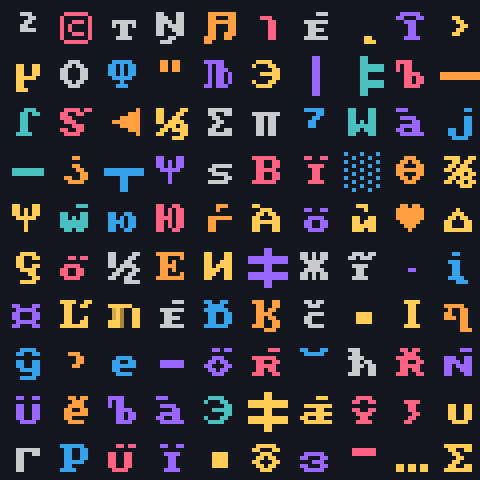
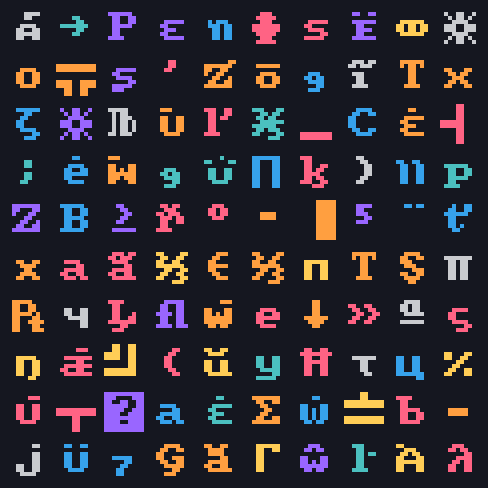
Update readme according to new generation parameters. Argparse mainly done

diff --git a/src/setup.py b/src/setup.py
@@ -2,7 +2,7 @@ import argparse
 import tomllib
 
 import argtypes
-import groups
+import aliases
 
 # This setup file configures all parameters for argparse
 # for all scripts. Default values stored in settings.toml,
@@ -132,7 +132,7 @@ def add_argument(argument, parser, ARGS, script_name):
         # Glyphs
         case 'font_name':
             parser.add_argument(
-                '-fn',
+                '-f', '-fn',
                 help='Set up font by given name',
                 default=ARGS['font_name'],
                 type=str,
@@ -150,7 +150,7 @@ def add_argument(argument, parser, ARGS, script_name):
 
         case 'font_padding':
             parser.add_argument(
-                '-fp', '-fm',
+                '-p', '-fp', '-fm',
                 help='Gap between glyphs on image',
                 default=ARGS['font_padding'],
                 type=int,
@@ -200,7 +200,7 @@ def add_argument(argument, parser, ARGS, script_name):
                 '-w',
                 help=(
                     'Image width. Can be parametrized with -as '
-                    'flag as pixels or tiles (if available)',
+                    'flag as pixels or tiles (if available)'
                 ),
                 default=ARGS['image_width'],
                 type=argtypes.dimension,
@@ -212,20 +212,20 @@ def add_argument(argument, parser, ARGS, script_name):
                 '-h',
                 help=(
                     'Image height. Can be parametrized with -as '
-                    'flag as pixels or tiles (if available)',
+                    'flag as pixels or tiles (if available)'
                 ),
                 default=ARGS['image_height'],
                 type=argtypes.dimension,
                 dest='image_height',
             )
 
-        case 'as':
+        case 'by':
             parser.add_argument(
-                '-as',
+                '-by',
                 help='The size unit for image width and height',
-                default=ARGS['as'],
+                default=ARGS['by'],
                 choices=('pixels', 'tiles'),
-                dest='as',
+                dest='by',
             )
 
         case 'image_scale_factor':
@@ -665,7 +665,7 @@ def add_argument(argument, parser, ARGS, script_name):
                 help='Exclude figure segments on image',
                 default=ARGS['exclude'],
                 dest='exclude',
-                choices=list(groups.figures.keys()),
+                choices=list(aliases.figures.keys()),
                 nargs='+'
             )
 
@@ -730,9 +730,6 @@ def add_argument(argument, parser, ARGS, script_name):
                 dest='line_color',
             )
 
-        case _:  # TODO: Remove
-            print(f'Argument {argument} not found!')
-
 
 def setup(script_name):
     settings = tomllib.load(open('settings.toml', 'rb'))
@@ -756,10 +753,13 @@ def setup(script_name):
         'worm': {
             'show_colors': argtypes.show_colors,
             'show_colorsets': argtypes.show_colorsets
-
         },
-        'primes': {
+        'coprimes': {
+            'show_colors': argtypes.show_colors
+        },
+        'puzzles': {
             'show_colors': argtypes.show_colors,
+            'show_colorsets': argtypes.show_colorsets
         }
     }.get(script_name, dict())
 
@@ -786,8 +786,6 @@ def setup(script_name):
     [helps[helper]() for helper in helps if ARGS[helper]]
     if any([ARGS[helper] for helper in helps]):
         exit(0)
-
-    # TODO: Validate all inputted values?
 
     # print(ARGS)
     return ARGS

diff --git a/src/aliases.py b/src/aliases.py
@@ -1,4 +1,14 @@
 colors = {
+    ':black': (0, 0, 0),
+    ':white': (255, 255, 255),
+    ':red': (255, 0, 0),
+    ':green': (0, 255, 0),
+    ':blue': (0, 0, 255),
+    ':pink': (255, 0, 255),
+    ':cyan': (0, 255, 255),
+    ':yellow': (255, 255, 0),
+
+    ':c:black': (21, 23, 32),
     ':c:red': (255, 99, 132),
     ':c:orange': (255, 159, 64),
     ':c:yellow': (255, 205, 86),
@@ -6,21 +16,40 @@ colors = {
     ':c:blue': (54, 162, 235),
     ':c:purple': (153, 102, 255),
     ':c:grey': (201, 203, 207),
-    ':c:black': (21, 23, 32),
 
-    ':white': (255, 255, 255),
-    ':black': (0, 0, 0),
+    ":p:black": (0, 0, 0),
+    ":p:dark-blue": (29, 43, 83),
+    ":p:dark-purple": (126, 37, 83),
+    ":p:dark-green": (0, 135, 81),
+    ":p:brown": (171, 82, 54),
+    ":p:dark-grey": (95, 87, 79),
+    ":p:light-grey": (194, 195, 199),
+    ":p:white": (255, 241, 232),
+    ":p:red": (255, 0, 77),
+    ":p:orange": (255, 163, 0),
+    ":p:yellow": (255, 236, 39),
+    ":p:green": (0, 228, 54),
+    ":p:blue": (41, 173, 255),
+    ":p:lavender": (131, 118, 156),
+    ":p:pink": (255, 119, 168),
+    ":p:light-peach": (255, 204, 170),
 }
 
 color_sets = {
     ':casual': (
-        (255, 99, 132),
-        (255, 159, 64),
-        (255, 205, 86),
-        (75, 192, 192),
-        (54, 162, 235),
-        (153, 102, 255),
-        (201, 203, 207),
+        tuple(
+            colors[c] for c in colors
+            if c.startswith(':c:') and c != ':c:black'
+        )
+    ),
+    ':pico-8': (
+        tuple(
+            colors[c] for c in colors
+            if c.startswith(':p:') and c != ':p:black'
+        )
+    ),
+    ':base': (
+        tuple(colors[c] for c in colors if c.count(':') == 1)
     ),
     ':grayscale': (
         tuple((c, c, c) for c in range(255, 0, -32))
@@ -34,8 +63,14 @@ color_sets = {
     ':bluescale': (
         tuple((0, 0, c) for c in range(255, 0, -32))
     ),
-    ':purplescale': (
+    ':pinkscale': (
         tuple((c, 0, c) for c in range(255, 0, -32))
+    ),
+    ':cyanscale': (
+        tuple((0, c, c) for c in range(255, 0, -32))
+    ),
+    ':yellowscale': (
+        tuple((c, c, 0) for c in range(255, 0, -32))
     ),
 }
 

diff --git a/src/puzzles.py b/src/puzzles.py
@@ -16,7 +16,7 @@ from utils import (
 ARGS = setup('puzzles')
 s = ARGS['tile_side']
 
-if ARGS['as'] == 'tiles':
+if ARGS['by'] == 'tiles':
     ARGS['image_width'] *= (s + 1)
     ARGS['image_width'] += 1
 
@@ -26,7 +26,7 @@ if ARGS['as'] == 'tiles':
 # Create canvas
 data = np.full(
     (ARGS['image_height'], ARGS['image_width'], 3),
-    (0, 0, 0),
+    tuple(255 - c for c in ARGS['line_color']),
     np.uint8
 )
 
@@ -40,11 +40,10 @@ data[:, -1] = ARGS['line_color']
 # Ledges
 l = ARGS['ledge_length']
 d = ARGS['ledge_depth']
+v = ceil((s - l) / 2)  # Length of baseline parts
 
 for y in range(0, ARGS['image_height'] - 1, s + 1):    
     for x in range(0, ARGS['image_width'] - 1, s + 1):
-        v = ceil((s - l) / 2)
-
         if y != 0 and y != ARGS['image_height'] - 1:
             # _    _ of  _|‾‾|_
             data[y, x:x+v + 1] = ARGS['line_color']
@@ -55,8 +54,8 @@ for y in range(0, ARGS['image_height'] - 1, s + 1):
             data[y+dy*d, x+v+1:x+v+1+l] = ARGS['line_color']
 
             #  |  |  of  _|‾‾|_
-            data[y:y+dy*d + 1*dy:dy, x+v] = ARGS['line_color']
-            data[y:y+dy*d + 1*dy:dy, x+v+1+l] = ARGS['line_color']
+            data[y:y+dy*d+dy:dy, x+v] = ARGS['line_color']
+            data[y:y+dy*d+dy:dy, x+v+1+l] = ARGS['line_color']
 
         # Same things but on y axis
         if x != 0 and x != ARGS['image_width'] - 1:
@@ -66,8 +65,8 @@ for y in range(0, ARGS['image_height'] - 1, s + 1):
             dx = choice((-1, 1))
             data[y+v+1:y+v+1+l, x+dx*d] = ARGS['line_color']
 
-            data[y+v, x:x+dx*d + 1*dx:dx] = ARGS['line_color']
-            data[y+v+1+l, x:x+dx*d + 1*dx:dx] = ARGS['line_color']
+            data[y+v, x:x+dx*d+dx:dx] = ARGS['line_color']
+            data[y+v+1+l, x:x+dx*d+dx:dx] = ARGS['line_color']
 
 # Paint
 image = Image.fromarray(data)

diff --git a/src/argtypes.py b/src/argtypes.py
@@ -4,7 +4,7 @@ import random
 import time
 import re
 
-from groups import (
+from aliases import (
     glyph_sets,
     colors,
     color_sets,
@@ -142,7 +142,7 @@ def none_or_int(value: str):
 
 
 def effects(value):
-    if value == "0":
+    if value == '0':
         return ''
     
     elif re.match(r"[1-6]+", value):

diff --git a/src/worm.py b/src/worm.py
@@ -64,7 +64,7 @@ for i in range(ARGS['step_limit']):
         if not 0 <= y <= ARGS['image_height'] - 1:
             y = abs(y - ARGS['image_height'] + 2)
         
-        cells.setdefault((x, y), 1)
+        cells.setdefault((x, y), 0)
         cells[(x, y)] += 1
 
 # Paint

diff --git a/src/mapper.py b/src/mapper.py
@@ -28,7 +28,7 @@ tileset = tuple(  # Slice tileset to list
     for y in range(0, t.shape[1], tile_height)
 )
 
-if ARGS['as'] == 'tiles':
+if ARGS['by'] == 'tiles':
     ARGS['image_width'] *= cell_width 
     ARGS['image_width'] += tile_padding
 

diff --git a/src/glyphs.py b/src/glyphs.py
@@ -15,7 +15,7 @@ from utils import (
 
 ARGS = setup('glyphs')
 
-if ARGS['as'] == 'tiles':
+if ARGS['by'] == 'tiles':
     ARGS['image_width'] *= ARGS['font_size'] + ARGS['font_padding']
     ARGS['image_width'] += ARGS['font_padding']
 

diff --git a/src/enemies.py b/src/enemies.py
@@ -88,7 +88,7 @@ for i in level_text:
 
 # Additional effects
 x, y = 10, 18
-effects_str = ARGS['effects'] or (
+effects_str = ARGS['effects'] if ARGS['effects'] is not None else (
     sample(list('123456'), randint(0, 6))
 )
 

diff --git a/src/coprimes.py b/src/coprimes.py
@@ -5,7 +5,7 @@ from math import gcd
 from random import randint
 
 from setup import setup
-from groups import figures
+from aliases import figures
 from utils import (
     resize,
     show_and_save

diff --git a/src/utils.py b/src/utils.py
@@ -4,7 +4,7 @@ from random import (
     choice
 )
 
-from groups import (
+from aliases import (
     zombatar_colors
 )
 

diff --git a/README.md b/README.md
@@ -4,12 +4,66 @@ A collection of scripts that generate images. Generative art.
 ### Installation
 Code written on [Python](https://www.python.org). Scripts uses `PIL` and `numpy` libraries to generate images.
 
-```
+```sh
 pip3 install -r requirements.txt
 ```
 
-WHY I'M WROTE ALL THIS CODE?......
-
 ### Settings
+Each script has their own settings. You can show it with `-help` flag. Each script had default settings, which can be viewd and updated in `settings.toml` file.
 
-### Samples
+You can also pass different `:aliases` in parameters. Aliases can be found via additional help commands:
+
+```sh
+# Glyphs
+--show-glyphsets
+
+# Colors
+--show-colors
+--show-colorsets
+
+# Zombatar colors
+--show-bright-colors
+--show-common-colors
+--show-skin-colors
+```
+
+You can add your own aliases in `aliases.py` file. All image samples for generators can be found in `src/img/` folder. 
+
+### Examples
+`zombatars.py`
+| ![](img/zombatars1.png) | ![](img/zombatars2.png) | ![](img/zombatars3.png) |
+|-|-|-|
+
+`enemies.py`
+| ![](img/enemies1.png) | ![](img/enemies2.png) | ![](img/enemies3.png) |
+|-|-|-|
+
+`glyphs.py`
+<table width="100%">
+  <tr>
+    <td width="33.333%"><img src="img/glyphs1.png"></td>
+    <td width="33.333%"><img src="img/glyphs2.png"></td>
+    <td width="33.333%"><img src="img/glyphs3.png"></td>
+  </tr>
+</table>
+
+`mapper.py`
+| ![](img/mapper1.png) | ![](img/mapper2.png) | ![](img/mapper3.png) |
+|-|-|-|
+
+`worm.py`
+| ![](img/worm1.png) | ![](img/worm2.png) | ![](img/worm3.png) |
+|-|-|-|
+
+`puzzles.py`
+<table width="100%">
+  <tr>
+    <td width="33.333%"><img src="img/puzzles1.png"></td>
+    <td width="33.333%"><img src="img/puzzles2.png"></td>
+    <td width="33.333%"><img src="img/puzzles3.png"></td>
+  </tr>
+</table>
+
+`coprimes.py`
+| ![](img/coprimes1.png) | ![](img/coprimes2.png) | ![](img/coprimes3.png) |
+|-|-|-|
